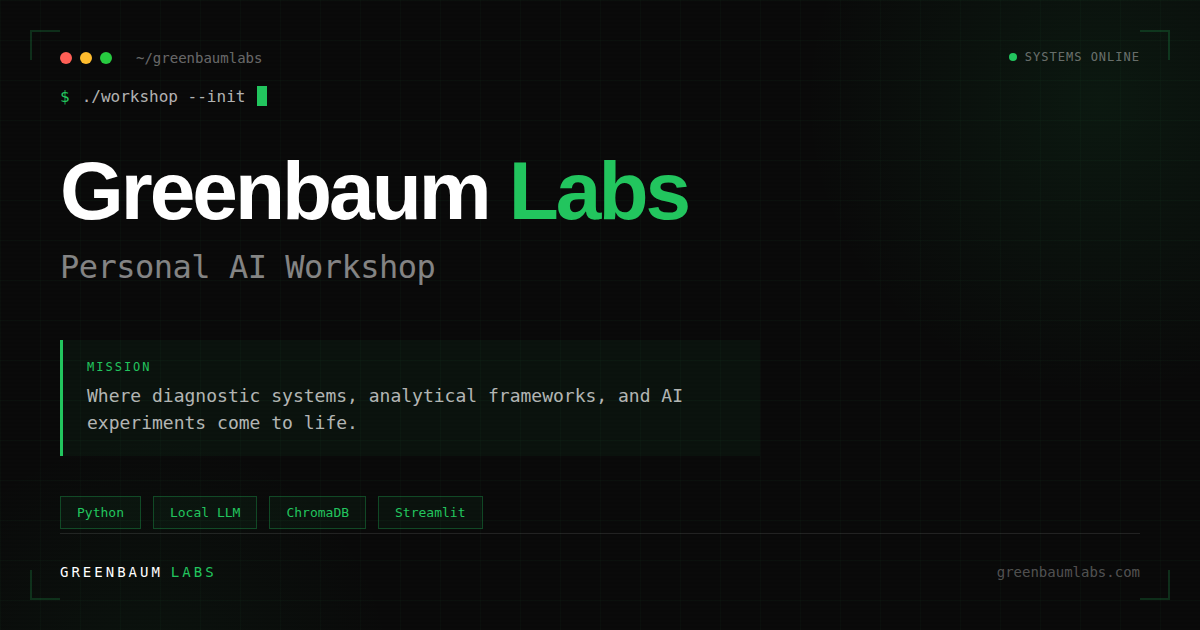
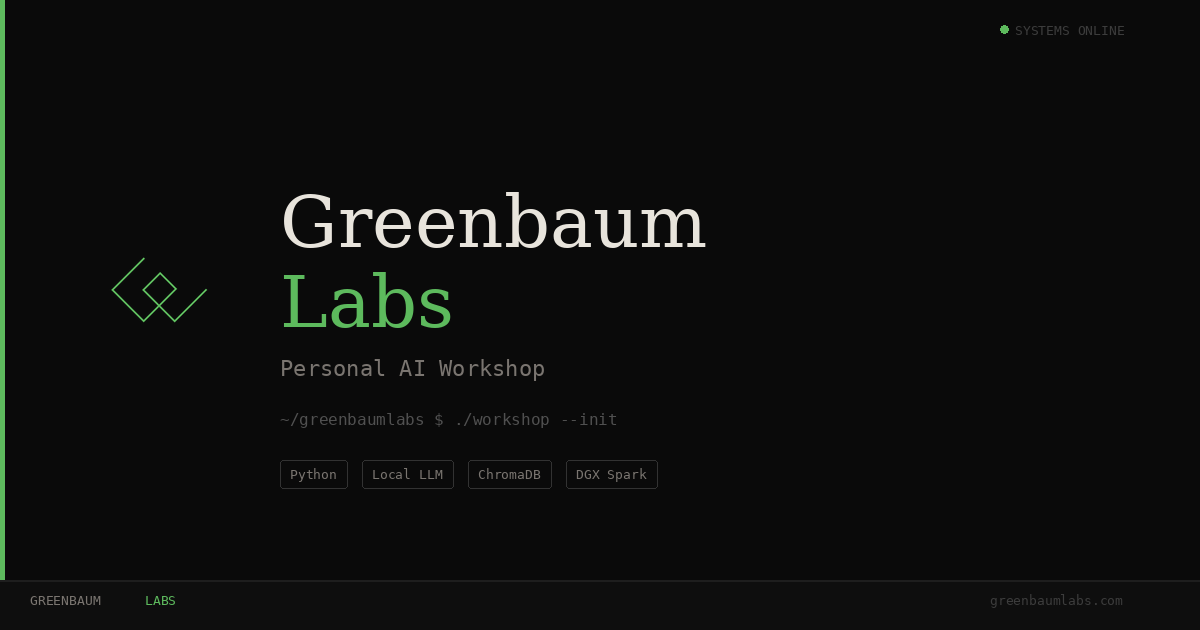
Add GL mark to site header and OG social card
Nav: Replace green dot indicator with the interlocking diamond mark (24px)
in the nav-brand on index and agentforce pages.

OG: Rebuild og-greenbaumlabs.png with the mark alongside title, subtitle,
terminal line, and tech tags on dark background.

diff --git a/greenbaumlabs.com/agentforce.html b/greenbaumlabs.com/agentforce.html
@@ -111,13 +111,9 @@
       gap: 0.75rem;
     }
 
-    .nav-indicator {
-      width: 6px;
-      height: 6px;
-      border-radius: 50%;
-      background: var(--green);
-      box-shadow: 0 0 8px var(--green-glow), 0 0 20px var(--green-glow);
-      animation: blink 3s ease infinite;
+    .nav-mark {
+      width: 24px;
+      height: 24px;
     }
 
     .nav-name {
@@ -517,7 +513,7 @@
   <!-- Nav -->
   <nav>
     <a href="/" class="nav-brand">
-      <div class="nav-indicator"></div>
+      <img src="/mark.png" alt="" class="nav-mark">
       <span class="nav-name">greenbaum<span>labs</span></span>
     </a>
     <a href="/" class="nav-back">← Back to Labs</a>

diff --git a/greenbaumlabs.com/index.html b/greenbaumlabs.com/index.html
@@ -142,13 +142,9 @@
       gap: 0.75rem;
     }
 
-    .nav-indicator {
-      width: 6px;
-      height: 6px;
-      border-radius: 50%;
-      background: var(--green);
-      box-shadow: 0 0 8px var(--green-glow), 0 0 20px var(--green-glow);
-      animation: blink 3s ease infinite;
+    .nav-mark {
+      width: 24px;
+      height: 24px;
     }
 
     .nav-name {
@@ -1053,7 +1049,7 @@
   <!-- Nav -->
   <nav id="nav">
     <a href="#" class="nav-brand">
-      <div class="nav-indicator"></div>
+      <img src="/mark.png" alt="" class="nav-mark">
       <span class="nav-name">greenbaum<span>labs</span></span>
     </a>
     <ul class="nav-links">
